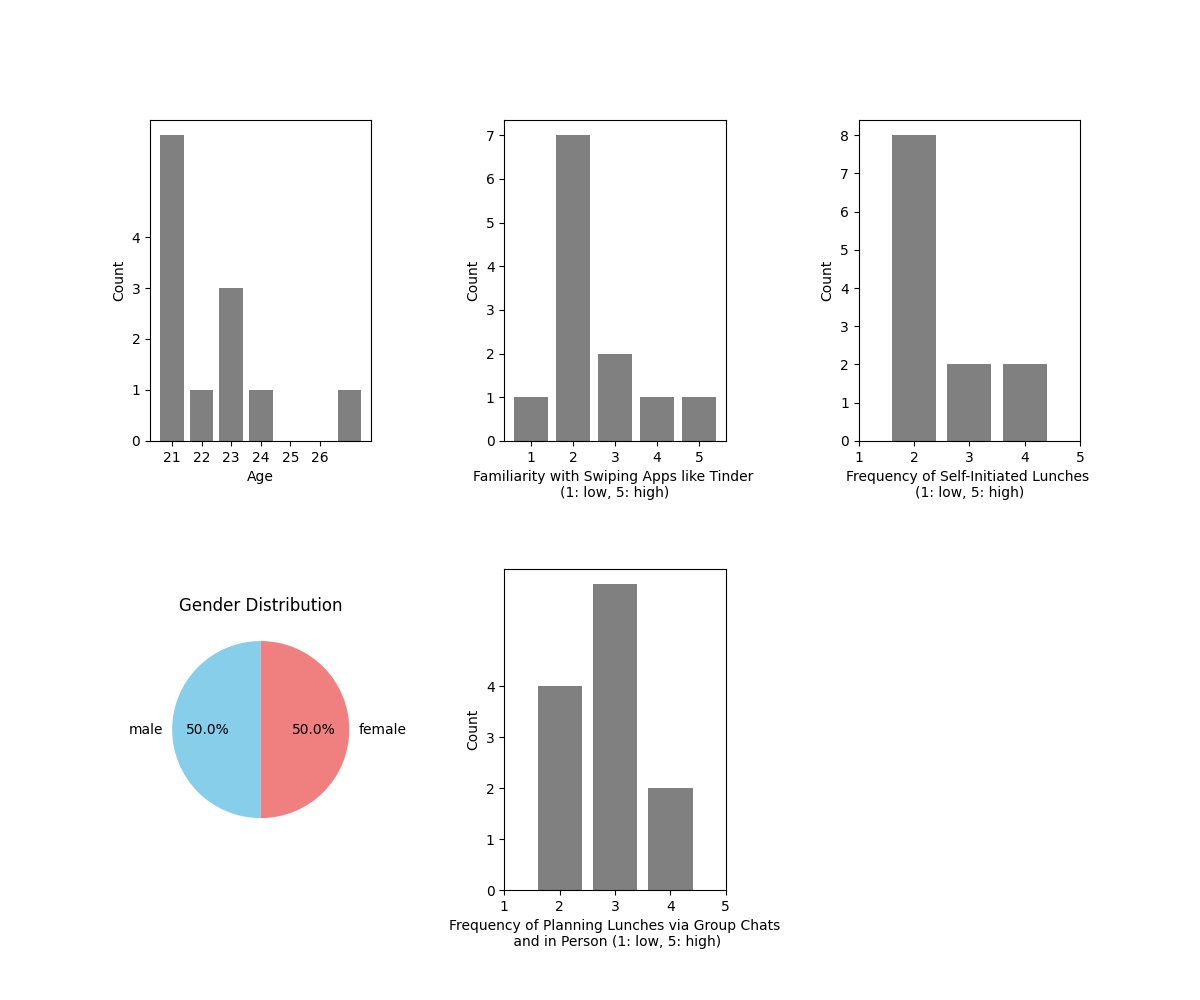
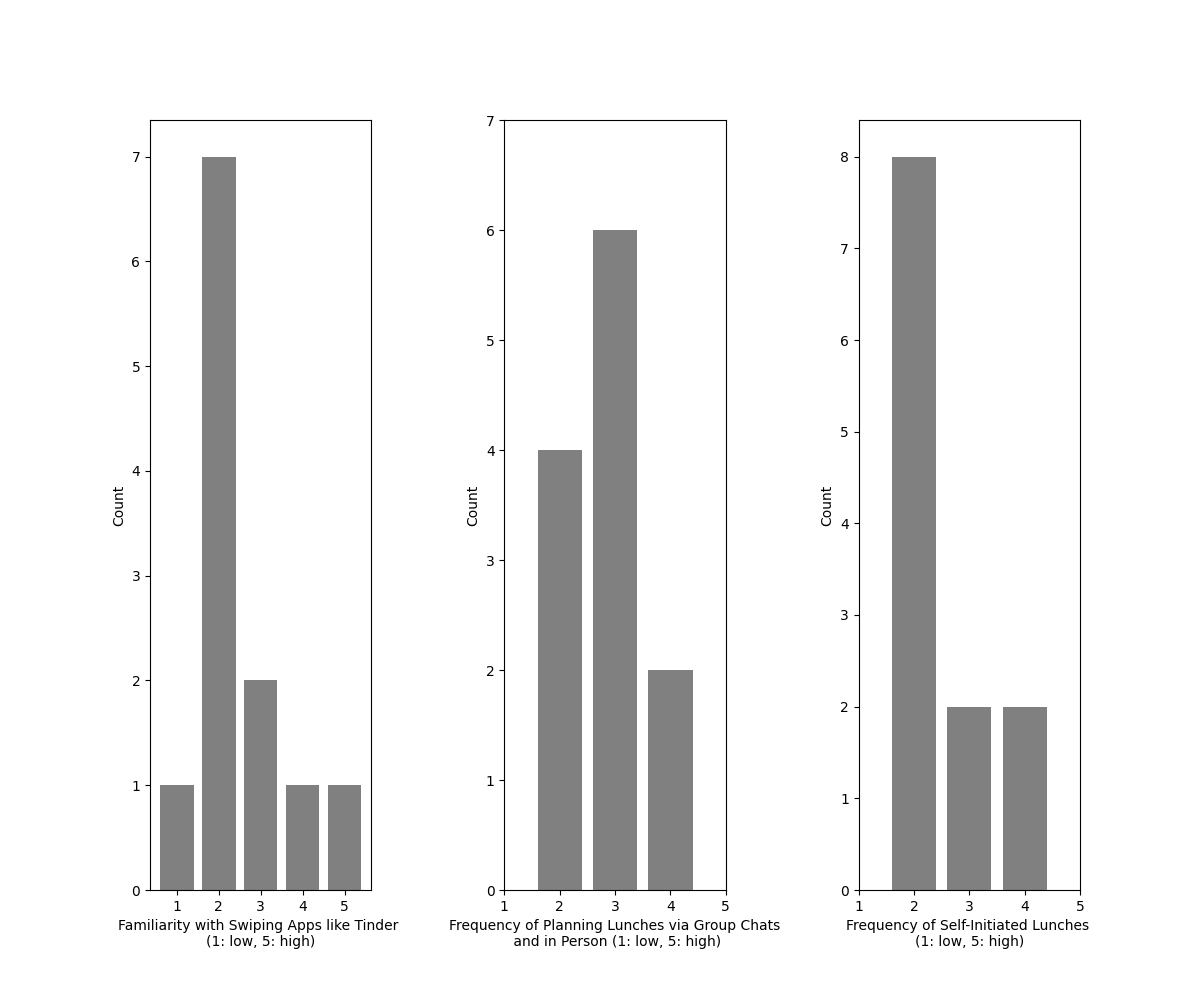
plots

diff --git a/code/study_analysis/data_analysis.py b/code/study_analysis/data_analysis.py
@@ -18,58 +18,45 @@ df = pd.read_csv(file_path)
 ##### Demographics
 
 # Set up subplots
-fig, axs = plt.subplots(2, 3, figsize=(12, 10))
+fig, axs = plt.subplots(1, 3, figsize=(12, 10))
 plt.subplots_adjust(wspace=0.6, hspace=0.4)
 
-# Plot 1: Age Distribution
-age_counts = df['age'].value_counts()
-axs[0, 0].bar(age_counts.index, age_counts, color='grey')
-axs[0, 0].set_xticks(np.arange(21,27,1))
-axs[0, 0].set_yticks(np.arange(0,5,1))
-axs[0, 0].set_xlabel('Age')
-axs[0, 0].set_ylabel('Count')
+
 
 avg_age = df['age'].mean()
 med_age = df['age'].median()
 
 
-# Plot 2: Gender Distribution
-gender_counts = df['gender'].value_counts()
-axs[1, 0].pie(gender_counts.values, labels=gender_counts.index, autopct='%1.1f%%', startangle=90, colors=['skyblue', 'lightcoral'])
-axs[1, 0].set_title('Gender Distribution')
-
-
-# Plot 3: Tinder Familiarity
+# Plot 1: Tinder Familiarity
 familiarity_counts = df['tinder_frequency'].value_counts().sort_index()
-axs[0, 1].bar(familiarity_counts.index, familiarity_counts, color='grey')
-axs[0, 1].set_xticks(np.arange(1, 6, 1))
-axs[0, 1].set_xlabel('Familiarity with Swiping Apps like Tinder \n(1: low, 5: high)')
-axs[0, 1].set_ylabel('Count')
+axs[0].bar(familiarity_counts.index, familiarity_counts, color='grey')
+axs[0].set_xticks(np.arange(1, 6, 1))
+axs[0].set_xlabel('Familiarity with Swiping Apps like Tinder \n(1: low, 5: high)')
+axs[0].set_ylabel('Count')
 
 avg_tinder_familiarity = df['tinder_frequency'].mean()
 
 
-# Plot 4: Frequency of Planning Lunches
+# Plot 2: Frequency of Planning Lunches
 frequency_counts = df['group_chat_frequency'].value_counts().sort_index()
-axs[1, 1].bar(frequency_counts.index, frequency_counts, color='grey')
-axs[1, 1].set_xticks(np.arange(1, 6, 1))
-axs[1, 1].set_yticks(np.arange(0, 5, 1))
-axs[1, 1].set_xlabel('Frequency of Planning Lunches via Group Chats\n and in Person (1: low, 5: high)')
-axs[1, 1].set_ylabel('Count')
+axs[1].bar(frequency_counts.index, frequency_counts, color='grey')
+axs[1].set_xticks(np.arange(1, 6, 1))
+axs[1].set_yticks(np.arange(0, 8, 1))
+axs[1].set_xlabel('Frequency of Planning Lunches via Group Chats\n and in Person (1: low, 5: high)')
+axs[1].set_ylabel('Count')
 
 avg_planning_frequency = df['group_chat_frequency'].mean()
 
 
-# Plot 5: Frequency of Self-Initiated Lunch
+# Plot 3: Frequency of Self-Initiated Lunch
 si_frequency_counts = df['self_initiated_lunch'].value_counts().sort_index()
-axs[0, 2].bar(si_frequency_counts.index, si_frequency_counts, color='grey')
-axs[0, 2].set_xticks(np.arange(1,6,1))
-axs[0, 2].set_xlabel('Frequency of Self-Initiated Lunches \n(1: low, 5: high)')
-axs[0, 2].set_ylabel('Count')
+axs[2].bar(si_frequency_counts.index, si_frequency_counts, color='grey')
+axs[2].set_xticks(np.arange(1,6,1))
+axs[2].set_xlabel('Frequency of Self-Initiated Lunches \n(1: low, 5: high)')
+axs[2].set_ylabel('Count')
 
 avg_self_init_frequency = df['self_initiated_lunch'].mean()
 
-fig.delaxes(axs[1, 2])
 plt.savefig(path_to_analysis + '/demographics_plots.png')
 plt.close()
 
